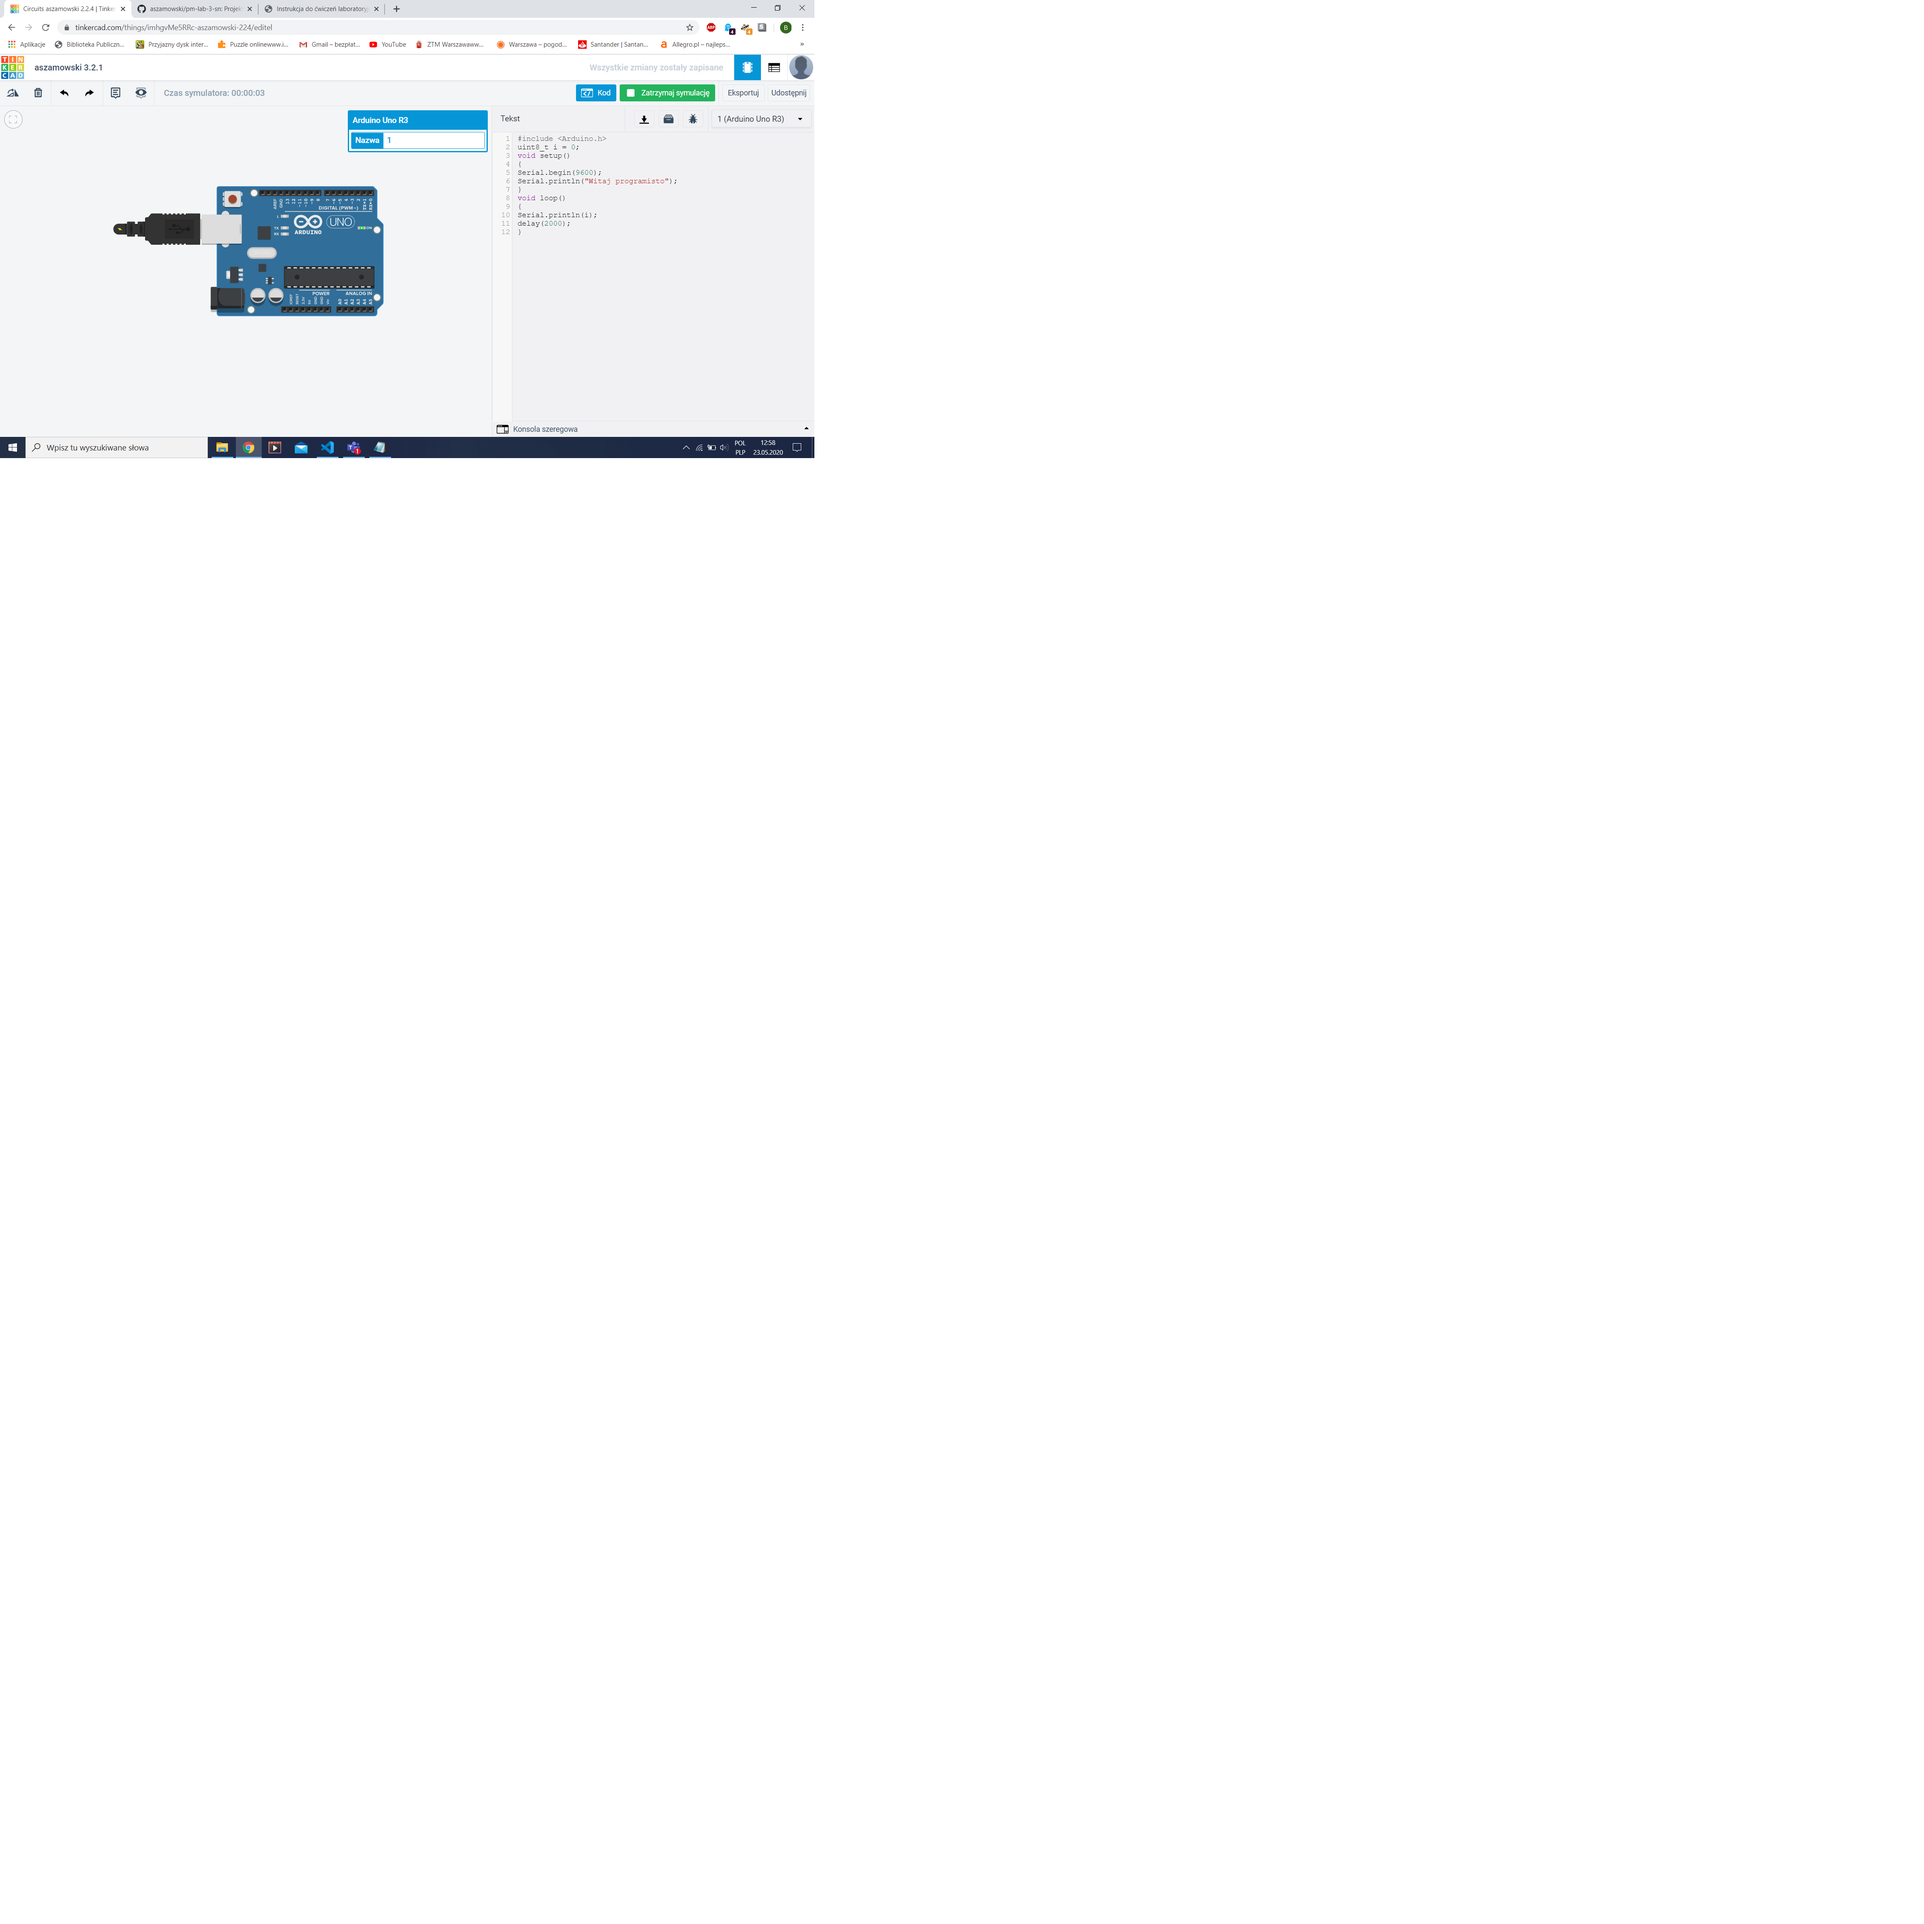
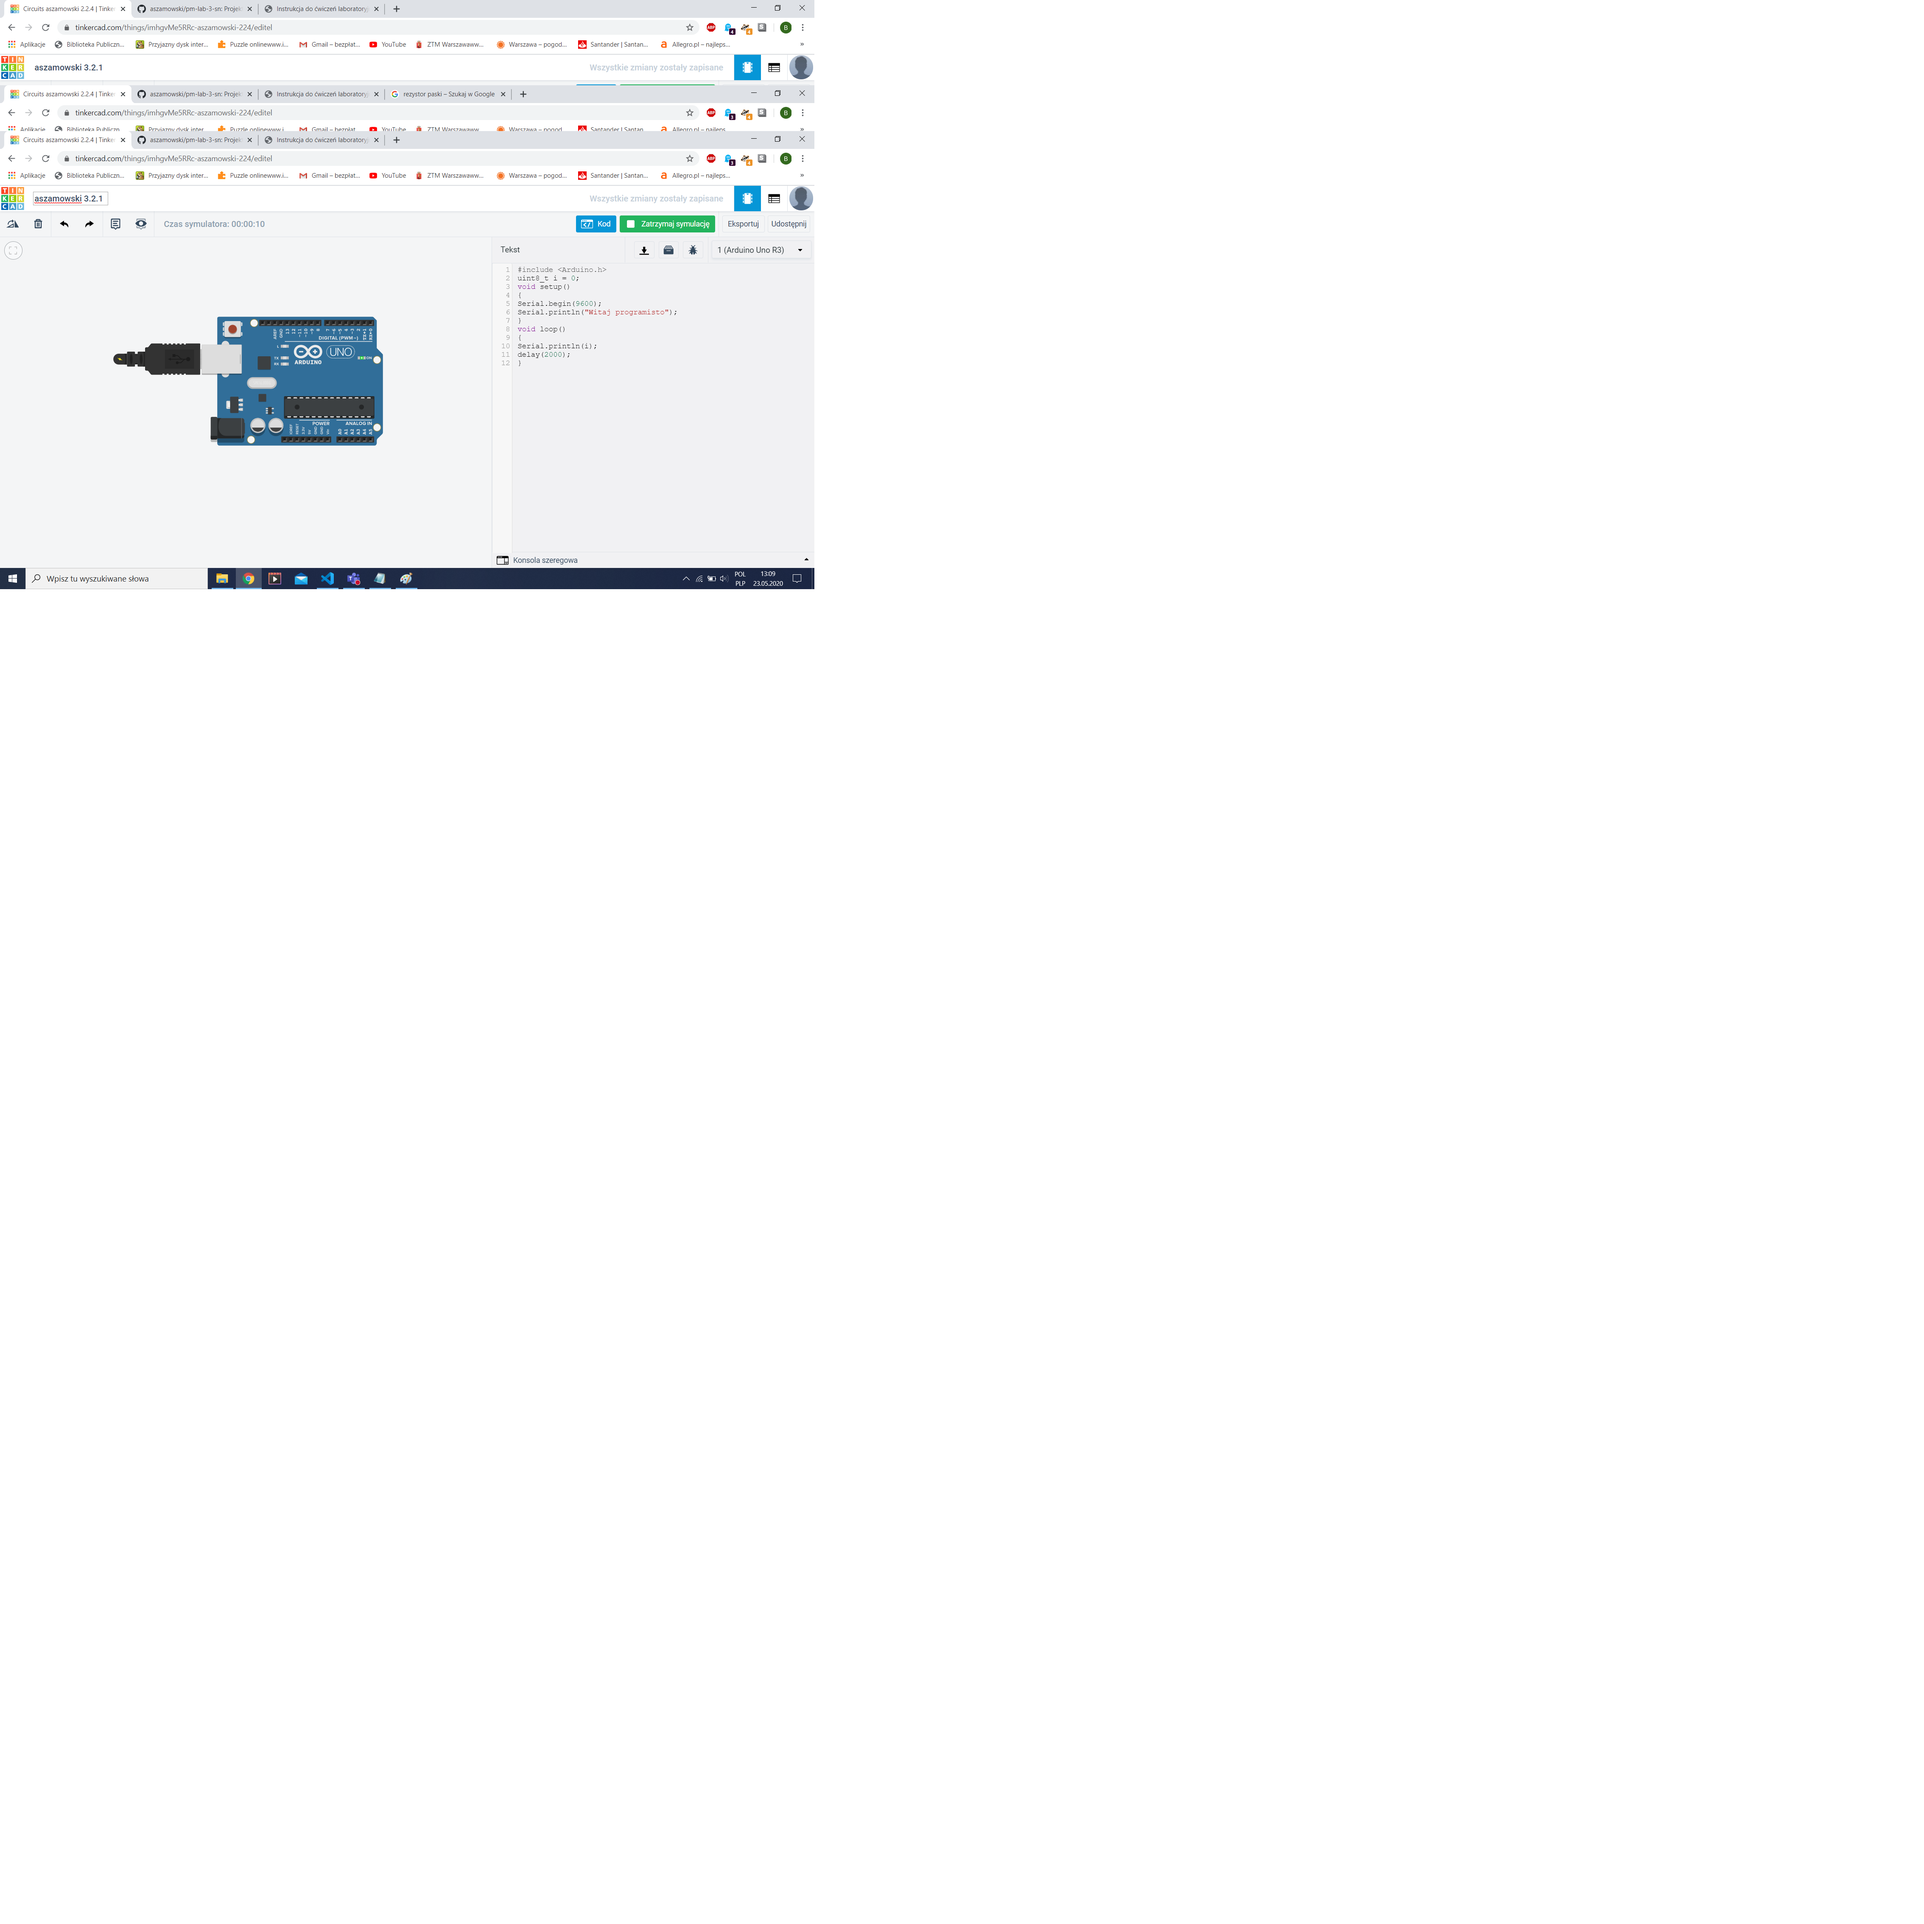
Wykonano zadanie 3.2.2 – zliczanie wciśnięć UART

diff --git a/Zadanie-3-2/src/main.cpp b/Zadanie-3-2/src/main.cpp
@@ -1,12 +1,33 @@
 #include <Arduino.h>
-uint8_t i = 0;
+#define BUTTON 2
+int stanPrzycisku;
+int poprzedniStanPrzycisku = LOW;
+unsigned long poprzedniCzas = 0;
+unsigned int liczba_nacisniec = 0;
 void setup()
 {
 Serial.begin(9600);
-Serial.println("Witaj programisto");
+pinMode(BUTTON, INPUT);
 }
 void loop()
 {
-Serial.println(i);
-delay(2000);
+int odczyt = digitalRead(BUTTON);
+if(odczyt != poprzedniStanPrzycisku)
+{
+poprzedniCzas = millis();
+}
+if((millis() - poprzedniCzas) > 50)
+{
+if(odczyt != stanPrzycisku)
+{
+stanPrzycisku = odczyt;
+if(stanPrzycisku == HIGH)
+{
+liczba_nacisniec++;
+Serial.print("Liczba nacisniec przycisku: ");
+Serial.println(liczba_nacisniec);
+}
+}
+}
+poprzedniStanPrzycisku = odczyt;
 }
